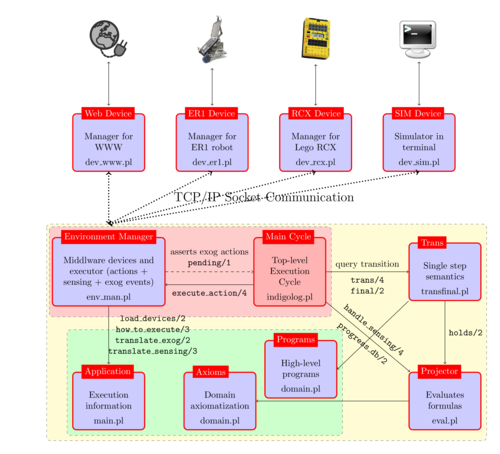
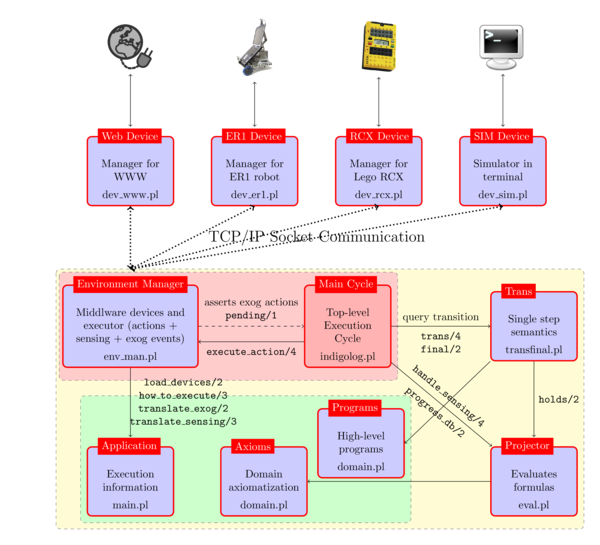
better pic

Changed region(s): [[0.12, 0.2775, 0.15, 0.37], [0.39, 0.37, 0.42, 0.4009], [0.21, 0.37, 0.24, 0.4009]]

diff --git a/doc/architecture_img/indigolog_arch.tex b/doc/architecture_img/indigolog_arch.tex
@@ -1,5 +1,5 @@
 % \documentclass[crop,convert={density=600,outext=.png}]{standalone}% 'crop' is the default for v1.0, before it was 'preview'
-\documentclass[border=4mm,convert={density=400,size=500,outext=.png}]{standalone}
+\documentclass[border=4mm,convert={density=400,size=600,outext=.png}]{standalone}
 
 % run with pdflatex --shell-escape 
 % orto get the png image
